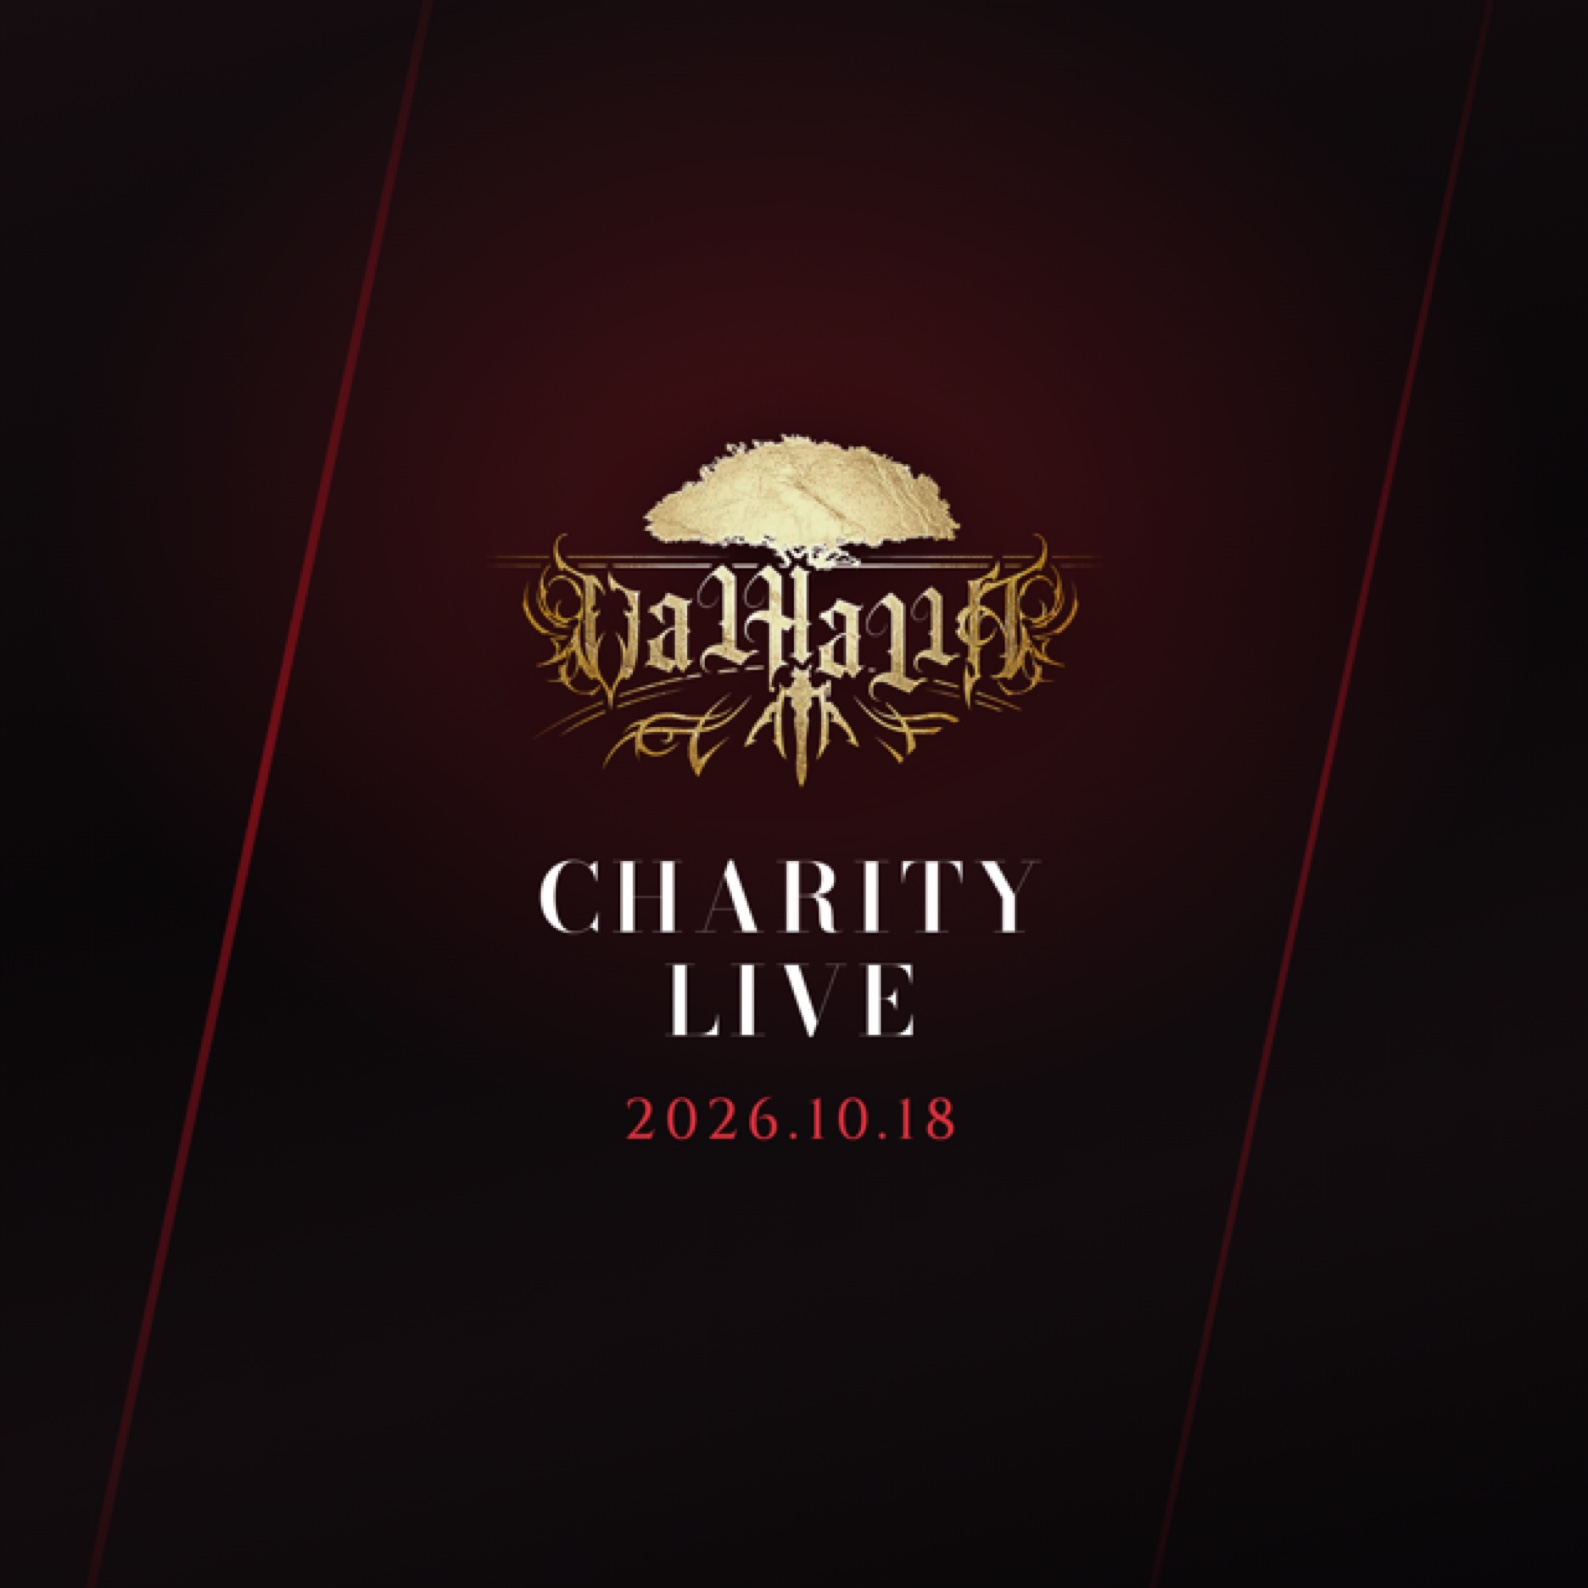
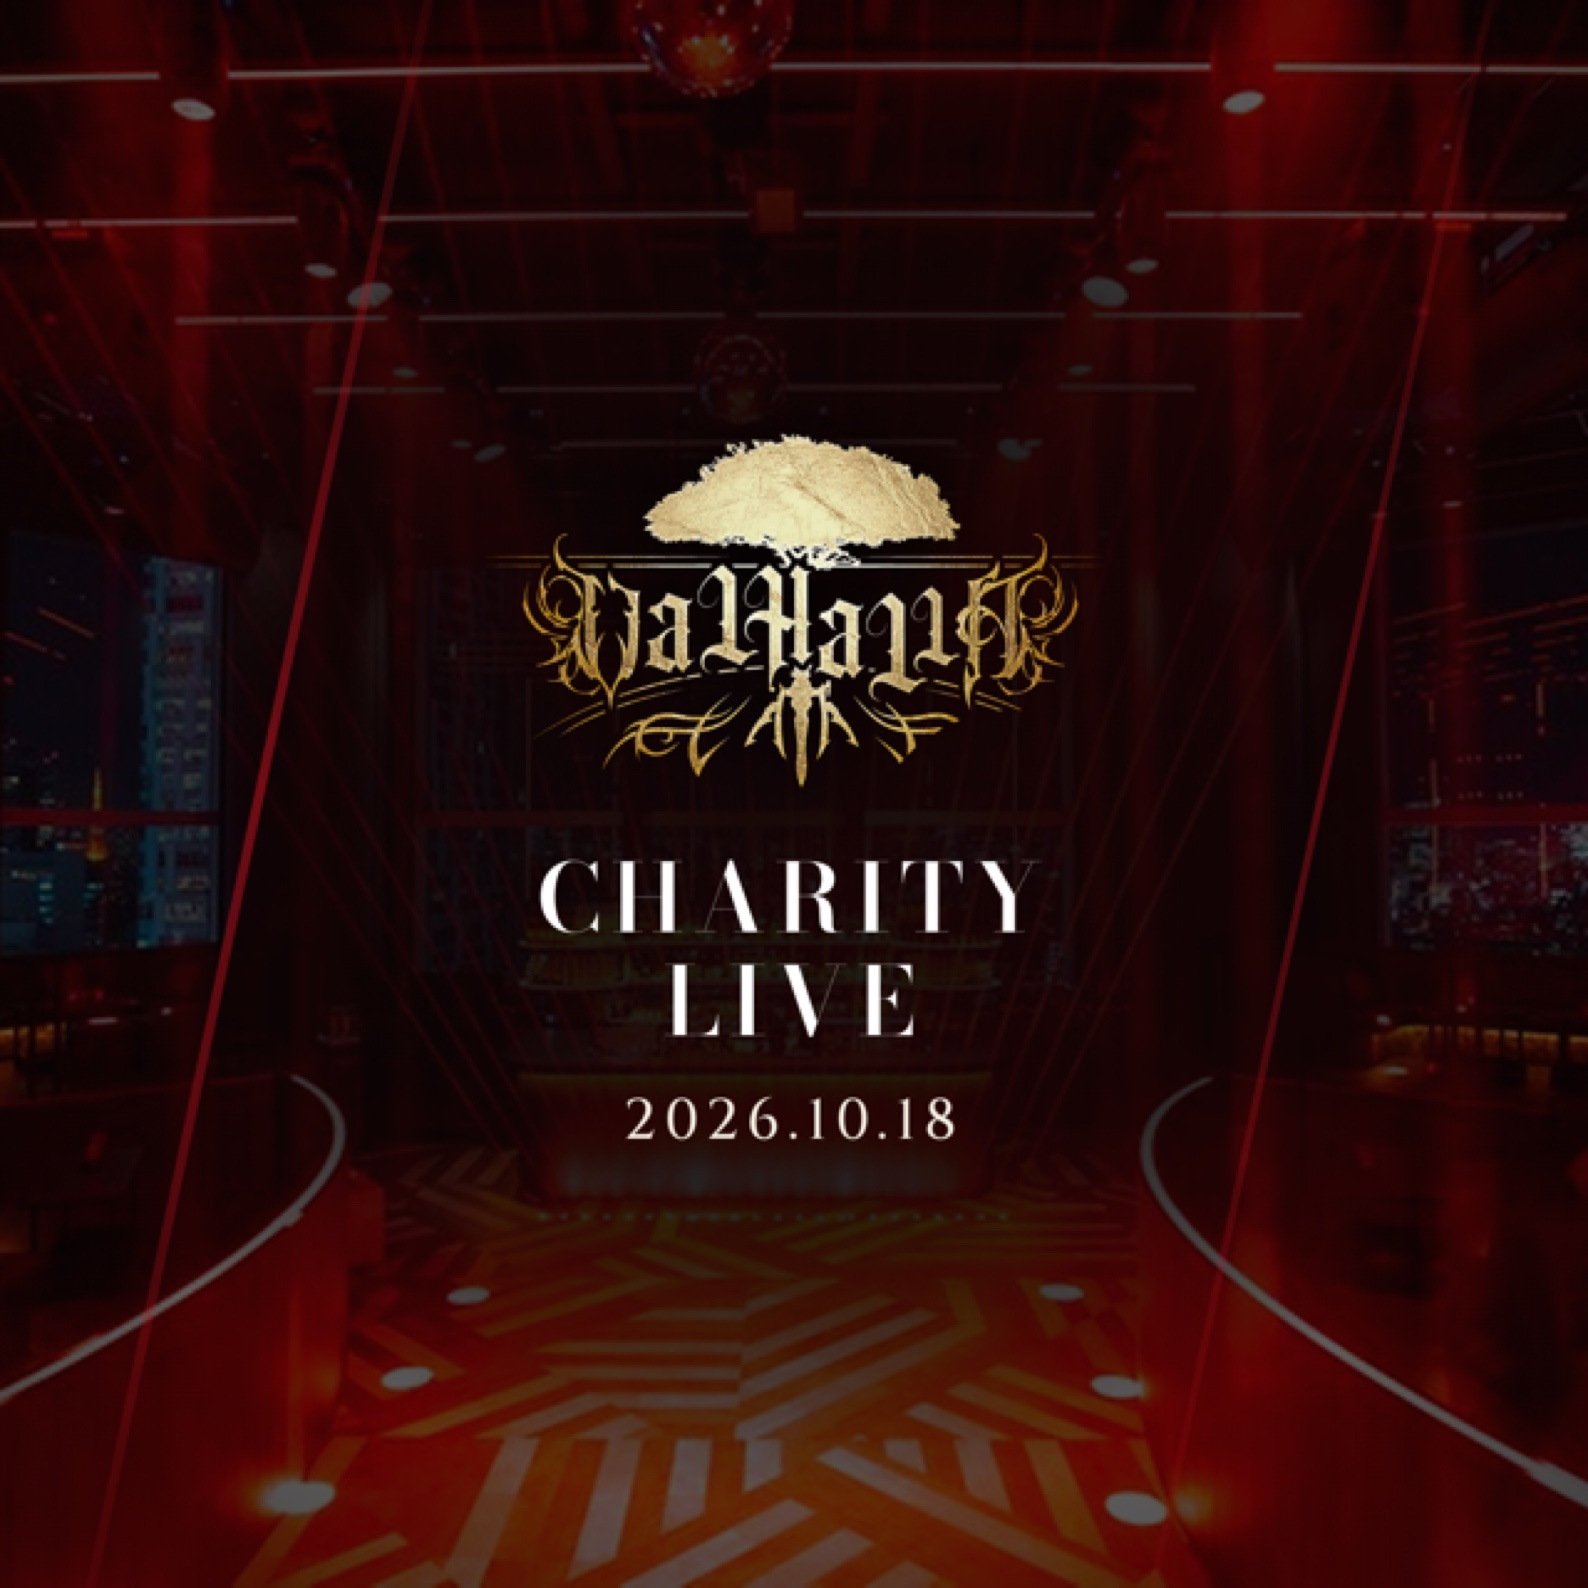
プロフィール画像にも CÉ LA VI の赤いレーザーを透かす
kazuma 指示「アイコンの方の画像にも透かしてセラビの赤いレーザーを入れて」。

- celavi_red.jpg を全面に敷き、円形トリミング前提で
  中心にレーザーの放射が来る位置（center 44%）に配置
- ロゴと文字が読めるよう中心を落とす楕円のveilを重ねた
- 日付「2026.10.18」は赤地に赤で沈むためクリーム色に変更

カバー画像と揃って、LINEのプロフィール全体が
CÉ LA VI の赤で統一された。円形プレビューも更新。

diff --git a/line-assets.html b/line-assets.html
@@ -65,6 +65,14 @@
   .icon{background:
       radial-gradient(ellipse 70% 55% at 50% 34%, rgba(150,26,34,.42), transparent 68%),
       linear-gradient(165deg,#150d0f 0%,#0a0709 46%,#120c0e 74%,#080608 100%)}
+  /* CÉ LA VI の赤いレーザーを透かす（円形トリミング前提で中心に放射が来る位置） */
+  .icon .laser{position:absolute;inset:0;z-index:0;
+    background:url('assets/charity/venue/celavi_red.jpg') center 44%/cover no-repeat;
+    filter:brightness(.78) saturate(1.12) contrast(1.05)}
+  /* ロゴと文字が読めるよう中心を落とす */
+  .icon .veil{position:absolute;inset:0;z-index:1;
+    background:radial-gradient(ellipse 74% 66% at 50% 46%,
+      rgba(6,4,5,.92) 0%, rgba(6,4,5,.84) 44%, rgba(6,4,5,.55) 74%, rgba(6,4,5,.68) 100%)}
   .icon .vein i.a{left:16%;width:4px;background:linear-gradient(180deg,transparent,rgba(193,18,31,.55) 50%,transparent)}
   .icon .vein i.b{left:83%;width:3px;background:linear-gradient(180deg,transparent,rgba(193,18,31,.4) 50%,transparent)}
   /* 円の内側（直径の約70%）に収める */
@@ -74,7 +82,7 @@
   .icon .t1{margin-top:22px;font-family:'Bodoni Moda',serif;font-weight:600;font-size:38px;
     letter-spacing:.10em;line-height:1.1;color:#fff}
   .icon .t2{margin-top:12px;font-family:'Cinzel',serif;font-weight:500;font-size:23px;
-    letter-spacing:.14em;color:var(--crimson-l)}
+    letter-spacing:.14em;color:var(--cream)}
   /* 円形トリミングの目安（書き出しには写らない） */
   .guide{position:absolute;inset:0;z-index:9;border-radius:50%;
     box-shadow:0 0 0 9999px rgba(0,0,0,.55);pointer-events:none;display:none}
@@ -99,6 +107,8 @@
 
 <!-- プロフィール画像 640x640（円形にトリミングされる） -->
 <section class="board icon">
+  <div class="laser"></div>
+  <div class="veil"></div>
   <div class="vein"><i class="a"></i><i class="b"></i></div>
   <div class="in">
     <img class="mark" src="assets/charity/logo_gold.webp" alt="VALHALLA">

diff --git a/docs/celavi-afterparty.md b/docs/celavi-afterparty.md
@@ -231,6 +231,10 @@
   その上に3人を右寄せで重ねている（kazuma 指示）
   - 3人の写真は左端をマスクでフェードさせ、レーザー面との境目を溶かしている
   - **テキストが MIO の顔に掛からないよう**、写真を右へ寄せ本文幅を 600→500px に絞った
+- **プロフィール画像（アイコン）にも同じ赤いレーザーを透かしている**（kazuma 指示）。
+  円形トリミング前提で中心にレーザーの放射が来る位置に配置し、
+  中心を強めに落として金ロゴと文字を立たせている。
+  日付は赤地に赤だと沈むためクリーム色に変更
 - 背景画像: 3人が縦に散った写真なので**引いて右寄せ**し、左をテキスト面にしている
   （VALHALLA / CHARITY LIVE / 2026.10.18 SUN / CÉ LA VI TOKYO）
 - 書き出し: `sh tools/render.sh line-assets.html line_cover cover 1200 600`
